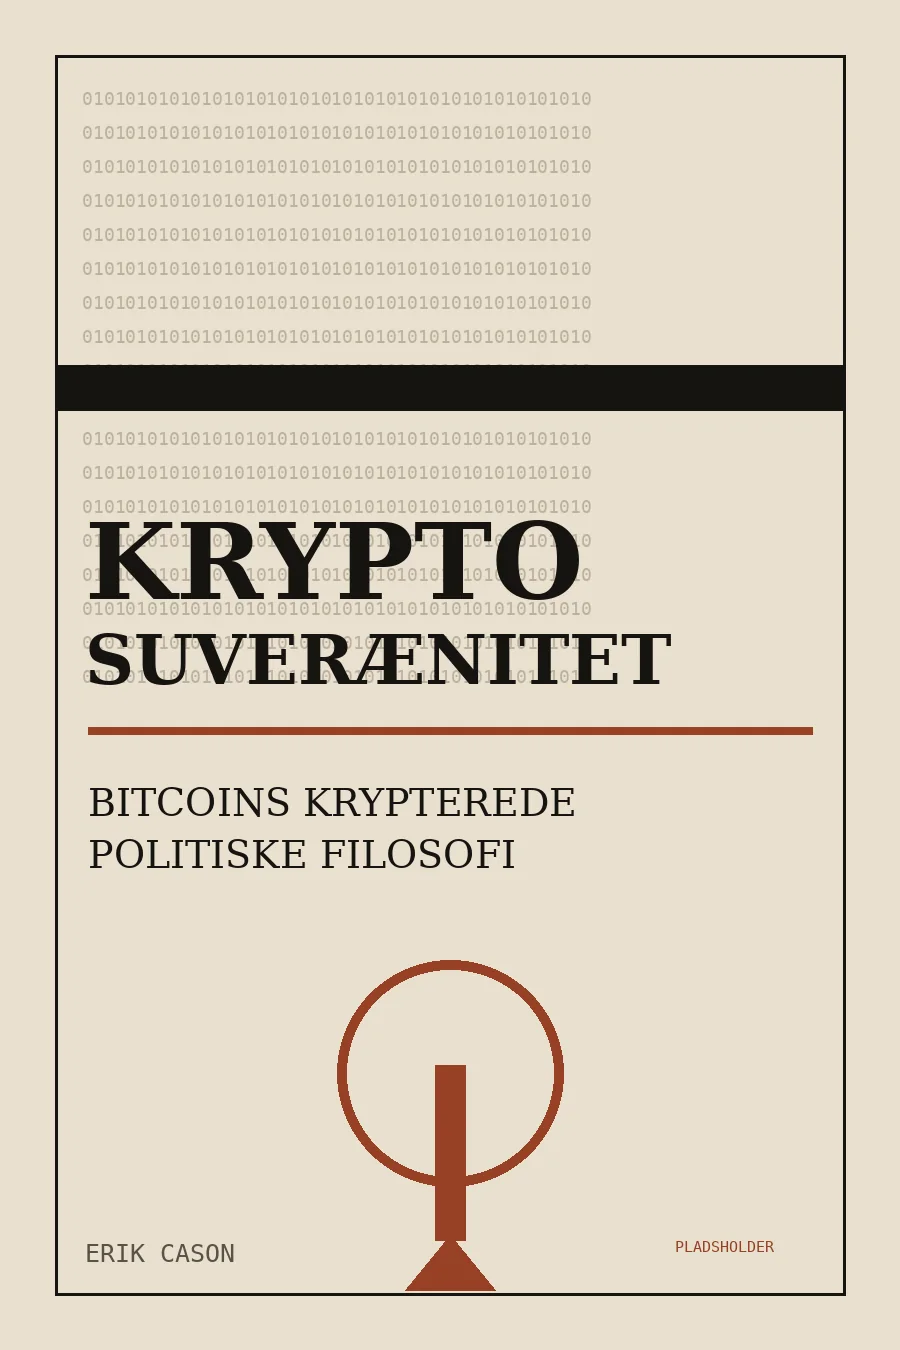
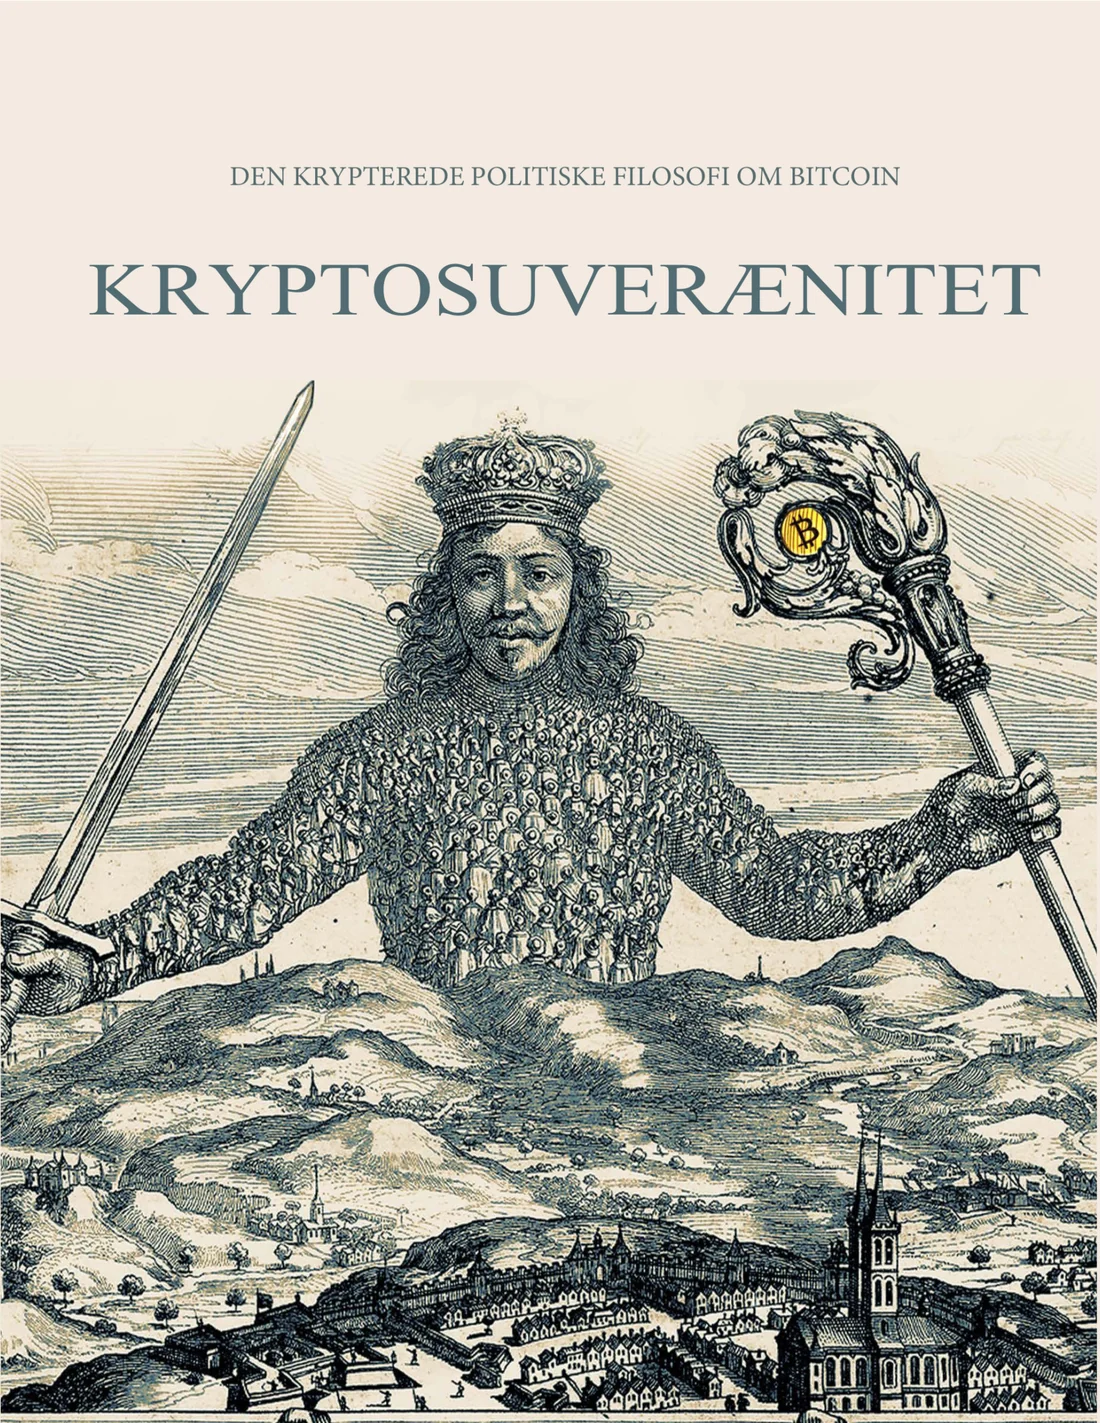
Add official cover and Leviathan visual identity

diff --git a/index.html b/index.html
@@ -55,7 +55,7 @@
   </nav>
 </header>
 <main id="indhold">
-  <section class="hero section">
+  <section class="hero section hero-leviathan">
     <div class="shell hero-grid">
       <div class="hero-copy">
         <p class="eyebrow">Erik Cason · Dansk udgave</p>
@@ -68,8 +68,8 @@
         </div>
       </div>
       <figure class="book-figure">
-        <img class="book-cover" src="/assets/images/book-cover.webp" width="900" height="1350" alt="Illustreret pladsholder for bogforsiden til Kryptosuverænitet">
-        <figcaption>Illustreret pladsholder. Den officielle forside indsættes først, når brugsretten er afklaret.</figcaption>
+        <img class="book-cover" src="/assets/images/book-cover.webp" width="1100" height="1423" alt="Bogforsiden til Kryptosuverænitet med en bearbejdet Leviathan-illustration">
+        <figcaption>Den danske udgave · SHOP21 ApS · 261 sider</figcaption>
       </figure>
     </div>
   </section>
@@ -81,9 +81,9 @@
         <h2>Mere end digitale penge</h2>
       </header>
       <div class="prose">
-        <p class="lede">Kryptosuverænitet behandler Bitcoin som et politisk, teknologisk og filosofisk fænomen — ikke som et spekulativt aktiv.</p>
-        <p>Bogen undersøger, hvordan kryptografi ændrer forholdet mellem individ, ejendom og myndighed. Når besiddelse kan bevises med nøgler, og regler kan håndhæves af et åbent netværk, bliver velkendte spørgsmål om penge, magt og tillid stillet på ny.</p>
-        <p>Det er en bog for læsere, der vil forstå idéerne bag Bitcoin: individuel suverænitet, privatliv, ejendomsret og de institutioner, som normalt garanterer dem. Den er ikke en vejledning i at købe Bitcoin.</p>
+        <p class="lede">I 17 essays læser Erik Cason Bitcoin som langt mere end digitale penge: som et spørgsmål om, hvem der kan fastsætte regler, bevare hemmeligheder og handle uden en central tilladelse.</p>
+        <p>Bogen bevæger sig fra kryptografiens skjulte betydning til suverænitet, magt, krig, privatliv, pædagogik, teologi og historiefilosofi. Dens grundspørgsmål er ikke, hvad Bitcoin koster, men hvad teknologien gør ved forholdet mellem individ, stat, lov og ejendom.</p>
+        <p>Det er et engageret og metafysisk forsvar for Bitcoin — ikke en neutral teknisk lærebog. Cason fører læseren gennem blandt andre Hobbes, Schmitt, Foucault, Agamben, Heidegger og Benjamin og fremsætter radikale teser, som bogen inviterer til at tænke med og imod.</p>
         <div class="fact-grid" aria-label="Bogoplysninger">
           <div class="fact"><span class="fact-label">Forfatter</span><span class="fact-value">Erik Cason</span></div>
           <div class="fact"><span class="fact-label">Format</span><span class="fact-value">Paperback · 261 sider</span></div>
@@ -134,10 +134,41 @@
     </div>
   </section>
 
+  <section id="bogens-bevaegelse" class="section book-map">
+    <div class="shell">
+      <header class="section-head">
+        <p class="eyebrow">04 / Bogens bevægelse</p>
+        <h2>Fire dele. Ét gennemgående spørgsmål.</h2>
+        <p class="lede">Hvad bliver suverænitet, når regler kan verificeres kryptografisk, og når et digitalt netværk kan fungere uden en identificerbar hersker?</p>
+      </header>
+      <div class="part-grid">
+        <article class="part-card"><span class="part-index">I · Kapitel 1–5</span><h3>En teori om Krypto</h3><p>Cason udvikler begrebet kryptosuverænitet, undersøger ordet <em>krypto</em> og læser kryptografi som en teknik for sandhed, forsvar og magt. Her etableres også bogens skarpe skel mellem Bitcoin og den øvrige kryptoverden.</p></article>
+        <article class="part-card"><span class="part-index">II · Kapitel 6–11</span><h3>En teori om Bitcoin</h3><p>Bitcoin fortolkes som et politisk og messiansk projekt. Satoshis anonymitet, pengenes udstedelse og netværkets lederløshed bliver elementer i en konflikt om autoritet, værdi og retten til at bestemme undtagelsen.</p></article>
+        <article class="part-card"><span class="part-index">III · Kapitel 12–15</span><h3>Bitcoin i praksis</h3><p>Argumentet forbindes med håb, privatliv, læring og fællesskab. Kryptografisk selvbeskyttelse bliver hos Cason et praktisk svar på overvågning og på kriser, hvor normale regler kan sættes ud af kraft.</p></article>
+        <article class="part-card"><span class="part-index">IV · Kapitel 16–17</span><h3>Filosofi og Bitcoin</h3><p>De sidste kapitler spørger til Bitcoins væsen med Heidegger og genlæser Walter Benjamins historiefilosofi fra et kryptoanarkistisk perspektiv. Det er bogens mest krævende og eksplicit metafysiske del.</p></article>
+      </div>
+      <p class="editorial-note"><strong>Redaktionel note:</strong> Beskrivelserne gengiver bogens argument. Påstande om Bitcoin som messiansk, militært eller frigørende projekt er Casons filosofiske fortolkninger — ikke neutrale fakta.</p>
+    </div>
+  </section>
+
+  <section class="section section-soft concepts-section">
+    <div class="shell split">
+      <header><p class="eyebrow">05 / Seks nøgler</p><h2>Begreber, der åbner bogen</h2></header>
+      <dl class="concept-list">
+        <div><dt>Kryptosuverænitet</dt><dd>Handlekraft, der opstår, når et menneske selv kontrollerer digitale nøgler, identitet og værdi — og ikke alene er afhængigt af en institutionel garant.</dd></div>
+        <div><dt>Det skjulte</dt><dd><em>Krypto</em> føres tilbage til det græske ord for noget skjult. Hemmeligheden er hos Cason ikke bare fravær af information, men et værn om det private.</dd></div>
+        <div><dt>Kryptomagt</dt><dd>En ikke-fysisk magt, hvor matematiske beviser og kode sætter grænser for, hvilke handlinger et system vil acceptere.</dd></div>
+        <div><dt>Undtagelsestilstand</dt><dd>Den situation, hvor en hersker tilsidesætter normale regler med henvisning til en krise. Bogen spørger, om kryptografiske regler kan modstå den undtagelse.</dd></div>
+        <div><dt>Tidskæden</dt><dd>Casons ord for Bitcoins kronologiske register: en fælles historie, der ordnes gennem bevis-på-arbejde og løbende kontrolleres af netværket.</dd></div>
+        <div><dt>Messiansk Bitcoin</dt><dd>Et bevidst religiøst ladet billede på håbet om en ny orden. Begrebet beskriver forfatterens tese om Bitcoin — ikke en teknisk egenskab ved protokollen.</dd></div>
+      </dl>
+    </div>
+  </section>
+
   <section class="section">
     <div class="shell external-panel">
       <div>
-        <p class="eyebrow">04 / Ekstern kilde</p>
+        <p class="eyebrow">06 / Ekstern kilde</p>
         <h2>Erik Cason og Crypto Sovereignty</h2>
         <hr class="kicker-line">
         <p class="lede">Crypto Sovereignty er Erik Casons engelsksprogede essayprojekt om kryptografi, suverænitet og Bitcoin.</p>

diff --git a/om-bogen/index.html b/om-bogen/index.html
@@ -40,9 +40,10 @@
 </header>
 <main id="indhold">
   <header class="page-hero shell"><p class="breadcrumb"><a href="/">Forside</a> / Om bogen</p><p class="eyebrow">Bogen</p><h1>Om Kryptosuverænitet</h1><p class="lede">En filosofisk undersøgelse af Bitcoin som politisk, teknologisk og eksistentielt fænomen.</p></header>
-  <section class="section section-soft"><div class="shell split"><header><p class="eyebrow">Udgangspunkt</p><h2>Bitcoin som politisk spørgsmål</h2></header><div class="prose"><p>Kryptosuverænitet spørger, hvad der sker med frihed, suverænitet og penge, når kryptografi kan erstatte nogle former for institutionel tillid med beviser, nøgler og åbne protokoller.</p><p>Bogens officielle beskrivelse fremstiller Bitcoin som mere end en ny form for penge. Fokus er den mulige forandring af forholdet mellem individ og stat — og de følger, det har for privatliv, magt, sandhed og selvbestemmelse.</p><p class="pull">Bogen handler om, hvorfor Bitcoin eksisterer og hvilke idéer teknologien gør politisk relevante — ikke om hvordan man køber den.</p></div></div></section>
+  <section class="section section-soft"><div class="shell split"><header><p class="eyebrow">Udgangspunkt</p><h2>Bitcoin som politisk spørgsmål</h2></header><div class="prose"><p><cite>Kryptosuverænitet</cite> samler 17 reviderede essays i fire dele. Cason begynder med forbindelsen mellem suverænitet, kryptografi og filosofi og bevæger sig derfra mod Bitcoin som politisk, teologisk og historiefilosofisk spørgsmål.</p><p>Hvor en almindelig introduktion forklarer transaktioner, wallets og markeder, undersøger denne bog, hvad et system med kryptografisk verificerbare regler betyder for menneskets forhold til penge, identitet, lov og stat. Privatliv, lederløshed og Satoshis anonymitet får derfor filosofisk betydning.</p><p class="pull">Det er et polemisk og metafysisk forsvar for Bitcoin, skrevet for læseren, der vil undersøge teknologiens politiske løfte — og prøve bogens radikale konklusioner kritisk.</p></div></div></section>
   <section class="section"><div class="shell"><header class="section-head"><p class="eyebrow">Verificerede oplysninger</p><h2>Udgaven i korte træk</h2></header><div class="fact-grid"><div class="fact"><span class="fact-label">Titel</span><span class="fact-value">Kryptosuverænitet – Bitcoins krypterede politiske filosofi</span></div><div class="fact"><span class="fact-label">Forfatter</span><span class="fact-value">Erik Cason</span></div><div class="fact"><span class="fact-label">Forlag</span><span class="fact-value">SHOP21 ApS</span></div><div class="fact"><span class="fact-label">Udgivelsesdato</span><span class="fact-value">1. august 2026</span></div><div class="fact"><span class="fact-label">Format</span><span class="fact-value">Paperback · 261 sider · dansk</span></div><div class="fact"><span class="fact-label">ISBN</span><span class="fact-value">9788785340085</span></div></div><p class="small-note">Oplysningerne er hentet fra den officielle <a href="https://shop21.dk/vare/kryptosuveraenitet-bitcoins-krypterede-politiske-filosofi/">produktside hos SHOP21</a>. Pris og lagerstatus vises ikke her, da de kan ændre sig.</p></div></section>
-  <section class="section section-soft"><div class="shell split"><header><p class="eyebrow">Afgrænsning</p><h2>Redaktionel præcision</h2></header><div class="prose"><p>Vi bruger kun bibliografiske oplysninger, der kan kontrolleres hos udgiveren. Der bringes ingen uverificerede citater, anbefalinger eller påstande om bogens indhold.</p><p>Shop21 fremhæver Carl Schmitt, Martin Heidegger og Friedrich Nietzsche i bogbeskrivelsen. Andre tænkere på denne hjemmesides <a href="/laeseliste/">læseliste</a> præsenteres som relevant videre læsning — ikke nødvendigvis som personer, der omtales i bogen.</p><p>Bogforsiden på forsiden er en lokalt skabt pladsholder. Den officielle forside republiceres ikke, før rettighederne er afklaret.</p></div></div></section>
+  <section class="section author-section"><div class="shell split"><header><p class="eyebrow">Forfatteren</p><h2>Erik Cason</h2></header><div class="prose"><p>Ifølge bogens egen biografi begyndte Erik Cason at beskæftige sig med Bitcoin i 2012. Året efter kom han til Coinbase, som han forlod i 2017. Siden koncentrerede han sit arbejde om essays og undervisning om Bitcoins sociale, politiske og filosofiske dimensioner.</p><p>Den danske udgaves afsluttende note er underskrevet af Peter Isaksen. Her takkes Rasmus Hansen, Pierre Vendelboe og Jonas Ejlersen for sparring, korrektur og indsigter i arbejdet med udgaven.</p></div></div></section>
+  <section class="section section-soft"><div class="shell split"><header><p class="eyebrow">Afgrænsning</p><h2>Redaktionel præcision</h2></header><div class="prose"><p>Vi bruger kun bibliografiske oplysninger, der kan kontrolleres hos udgiveren. Der bringes ingen uverificerede citater, anbefalinger eller påstande om bogens indhold.</p><p>Shop21 fremhæver Carl Schmitt, Martin Heidegger og Friedrich Nietzsche i bogbeskrivelsen. Andre tænkere på denne hjemmesides <a href="/laeseliste/">læseliste</a> præsenteres som relevant videre læsning — ikke nødvendigvis som personer, der omtales i bogen.</p><p>Den officielle bogforside er leveret til dette projekt og vises i en weboptimeret udgave. Bogens tekst er ophavsretligt beskyttet; hjemmesidens beskrivelser er derfor korte redaktionelle parafraser, ikke boguddrag.</p></div></div></section>
   <section class="cta-band"><div class="shell"><p class="eyebrow">Den danske udgave</p><h2>Læs hele beskrivelsen hos udgiveren</h2><p>Køb og aktuelle produktoplysninger håndteres eksternt af SHOP21.</p><div class="actions"><a class="button button-primary" href="https://shop21.dk/vare/kryptosuveraenitet-bitcoins-krypterede-politiske-filosofi/">Køb bogen <span class="button-arrow" aria-hidden="true">↗</span></a></div></div></section>
 </main>
 <footer class="site-footer">

diff --git a/assets/css/main.css b/assets/css/main.css
@@ -323,3 +323,116 @@ p { margin-block: 0 1.2em; }
   .section { padding-block: 2rem; }
   a { color: inherit; }
 }
+/* Leviathan-derived atmosphere and book-structure components */
+.hero-leviathan {
+  position: relative;
+  isolation: isolate;
+  background:
+    linear-gradient(90deg, var(--paper) 0%, rgba(18,17,15,.96) 42%, rgba(18,17,15,.77) 100%),
+    url('/assets/images/leviathan-bg.webp') right center / min(61rem, 78vw) auto no-repeat;
+}
+.hero-leviathan::before {
+  content: "";
+  position: absolute;
+  z-index: -1;
+  inset: 0;
+  background:
+    linear-gradient(180deg, var(--paper) 0, transparent 18%, transparent 76%, var(--paper) 100%),
+    repeating-linear-gradient(0deg, transparent 0 5px, rgba(241,236,226,.016) 5px 6px);
+  pointer-events: none;
+}
+.hero-leviathan::after {
+  content: "LEVIATHAN / KODE / SUVERÆNITET";
+  position: absolute;
+  z-index: -1;
+  right: max(1rem, calc((100vw - var(--measure)) / 2));
+  bottom: 1rem;
+  color: rgba(241,236,226,.28);
+  font-family: var(--mono);
+  font-size: .58rem;
+  letter-spacing: .14em;
+}
+.hero-leviathan .book-cover {
+  border: 1px solid rgba(241,236,226,.2);
+  box-shadow: 1.15rem 1.25rem 0 rgba(9,8,6,.86), 0 2rem 5rem rgba(0,0,0,.58);
+}
+.book-map { position: relative; overflow: hidden; }
+.book-map::after {
+  content: "κρυπτός";
+  position: absolute;
+  z-index: -1;
+  right: -0.08em;
+  top: -.2em;
+  color: rgba(241,236,226,.025);
+  font-size: clamp(9rem, 27vw, 27rem);
+  line-height: 1;
+}
+.part-grid {
+  display: grid;
+  grid-template-columns: repeat(2, minmax(0, 1fr));
+  border: 1px solid var(--line);
+  background: var(--line);
+  gap: 1px;
+}
+.part-card {
+  min-height: 20rem;
+  display: flex;
+  flex-direction: column;
+  padding: clamp(1.6rem, 4vw, 3rem);
+  background: color-mix(in srgb, var(--paper), transparent 2%);
+}
+.part-card h3 { max-width: 13ch; margin-bottom: 1.2rem; }
+.part-card p { margin: auto 0 0; color: var(--ink-soft); }
+.part-index {
+  display: block;
+  margin-bottom: clamp(2.5rem, 6vw, 5rem);
+  color: var(--accent-light);
+  font-family: var(--mono);
+  font-size: .7rem;
+  letter-spacing: .08em;
+  text-transform: uppercase;
+}
+.editorial-note {
+  max-width: 58rem;
+  margin: 2rem 0 0;
+  padding-left: 1.2rem;
+  border-left: 2px solid var(--accent);
+  color: var(--ink-soft);
+  font-family: var(--sans);
+  font-size: .82rem;
+  line-height: 1.65;
+}
+.editorial-note strong { color: var(--ink); }
+.concept-list { margin: 0; }
+.concept-list > div {
+  display: grid;
+  grid-template-columns: minmax(9rem, .62fr) minmax(0, 1.38fr);
+  gap: clamp(1rem, 4vw, 3rem);
+  padding: 1.35rem 0;
+  border-top: 1px solid var(--line);
+}
+.concept-list > div:last-child { border-bottom: 1px solid var(--line); }
+.concept-list dt { color: var(--ink); font-size: 1.12rem; font-weight: 600; }
+.concept-list dd { margin: 0; color: var(--ink-soft); font-size: .98rem; line-height: 1.62; }
+.author-section {
+  background:
+    linear-gradient(90deg, var(--paper) 0%, rgba(18,17,15,.94) 100%),
+    url('/assets/images/leviathan-bg.webp') right center / 58rem auto no-repeat;
+}
+@media (max-width: 860px) {
+  .hero-leviathan {
+    background:
+      linear-gradient(180deg, rgba(18,17,15,.97) 0%, rgba(18,17,15,.91) 48%, rgba(18,17,15,.73) 100%),
+      url('/assets/images/leviathan-bg.webp') center bottom / auto 65% no-repeat;
+  }
+  .part-grid { grid-template-columns: 1fr; }
+  .part-card { min-height: 16rem; }
+  .part-index { margin-bottom: 2.5rem; }
+}
+@media (max-width: 600px) {
+  .hero-leviathan::after { display: none; }
+  .concept-list > div { grid-template-columns: 1fr; gap: .45rem; }
+}
+@media print {
+  .hero-leviathan, .author-section { background: none; }
+}

diff --git a/scripts/check_site.py b/scripts/check_site.py
@@ -62,7 +62,7 @@ for file in html:
   if href.startswith(('http://','https://')): external.add(href); continue
   t=target(href)
   if t and not t.exists(): ERRORS.append(f'{rel}: broken internal link {href}')
-for path in ('404.html','robots.txt','sitemap.xml','CNAME','assets/images/favicon.svg','assets/images/social-card.webp','assets/images/book-cover.webp'):
+for path in ('404.html','robots.txt','sitemap.xml','CNAME','assets/images/favicon.svg','assets/images/social-card.webp','assets/images/book-cover.webp','assets/images/leviathan-bg.webp'):
  if not (ROOT/path).exists(): ERRORS.append(f'Missing required file: {path}')
 if (ROOT/'CNAME').read_text().strip()!='xn--suvern-tua.dk': ERRORS.append('CNAME must use punycode apex')
 sitemap=(ROOT/'sitemap.xml').read_text()

diff --git a/README.md b/README.md
@@ -41,24 +41,25 @@ Der skal ikke installeres Ruby, Node.js eller andre dependencies. Stop serveren 
 | Farver, typografi og responsivt design | `assets/css/main.css` |
 | Bogforside | `assets/images/book-cover.webp` |
 | Social delingsgrafik | `assets/images/social-card.webp` |
+| Leviathan-baggrund | `assets/images/leviathan-bg.webp` |
 | Favicon | `assets/images/favicon.svg` |
 | Titler, descriptions, canonical og Open Graph | `<head>` i hver HTML-fil |
 | Søgemaskiners sider | `sitemap.xml` og `robots.txt` |
 | Custom domain | `CNAME` |
 
-### Udskift bogforsiden
+### Bogforside og baggrund
 
-Den nuværende `assets/images/book-cover.webp` er en original pladsholder, fordi SHOP21-siden ikke viser en eksplicit licens til at genudgive den officielle forside.
+Den officielle forside er leveret og godkendt til projektet af bogprojektets ejer. Den weboptimerede fil ligger som `assets/images/book-cover.webp`. En beskåret, monokrom afledning af Leviathan-motivet ligger i `assets/images/leviathan-bg.webp` og bruges som diskret hero- og sektionsbaggrund.
 
-Når rettighedshaveren har givet tilladelse:
+Ved en senere udskiftning:
 
-1. eksportér forsiden som WebP i cirka 900 × 1350 px (samme billedforhold),
-2. optimér filen til web,
-3. erstat `assets/images/book-cover.webp` uden at ændre filnavnet,
-4. ret billedets `alt`-tekst og fjern pladsholderteksten i `index.html`,
+1. eksportér den godkendte forside som WebP i omtrent samme billedforhold,
+2. optimér filen og erstat `assets/images/book-cover.webp`,
+3. opdatér eventuelt `assets/images/leviathan-bg.webp`,
+4. ret filernes mål og billedets `alt`-tekst i `index.html`,
 5. commit og push ændringen.
 
-Genbrug ikke SHOP21s billedfil alene fordi URL’en er offentlig; indhent brugsret først.
+Kildemanuskriptet/PDF’en er ophavsretligt beskyttet og versionsstyres ikke i dette offentlige repository. Webteksterne er korte redaktionelle parafraser, ikke boguddrag.
 
 ## Test før push
 
